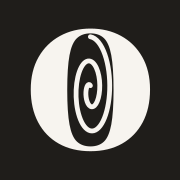
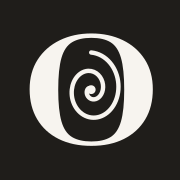
feat: widen the o of Poetry into a round bowl for the coil

diff --git a/frontend/src/components/brand/Wordmark.tsx b/frontend/src/components/brand/Wordmark.tsx
@@ -1,14 +1,16 @@
 import { cn } from "@/lib/utils";
 
 // Generated from DM Serif Display outlines (OFL), so the lockup carries no webfont
-// dependency. The spiral stands in for the counter of the "o" and is stroked at the
-// serif's own hairline weight. Regenerate rather than hand-edit: docs/design/logo.md.
-const VIEW_BOX = "22 -673 7393 913";
+// dependency. The "o" of Poetry is a widened round bowl holding a two-turn spiral,
+// stroked at the serif's own hairline weight and ending in a pressed dot.
+// Regenerate rather than hand-edit: docs/design/logo.md.
+const VIEW_BOX = "22 -673 7420 913";
 const LETTERS =
-  "M294 0L22 0L22 -10L42 -17Q62 -23 68.5 -35Q75 -47 75 -67L75 -67L75 -591Q75 -611 68 -623Q61 -635 41 -642L41 -642L22 -650L22 -660L265 -660Q414 -660 480.5 -605.5Q547 -551 547 -462L547 -462Q547 -405 519.5 -357.5Q492 -310 429 -282Q366 -254 259 -254L259 -254L225 -254L225 -70Q225 -31 264 -19L264 -19L294 -10L294 0M225 -640L225 -274L263 -274Q312 -274 343 -290Q374 -306 389 -346Q404 -386 404 -457L404 -457Q404 -529 387.5 -569Q371 -609 339 -624.5Q307 -640 259 -640L259 -640L225 -640M838 15L838 15Q762 15 706 -16.5Q650 -48 619.5 -106Q589 -164 589 -242L589 -242Q589 -320 621.5 -377Q654 -434 710.5 -465Q767 -496 838 -496L838 -496Q909 -496 965 -465.5Q1021 -435 1053.5 -378Q1086 -321 1086 -242L1086 -242Q1086 -163 1055.5 -105.5Q1025 -48 969.5 -16.5Q914 15 838 15M838 -5L838 -5Q873 -5 894 -25Q915 -45 924.5 -96Q934 -147 934 -240L934 -240Q934 -334 924.5 -385Q915 -436 894 -456Q873 -476 838 -476L838 -476Q803 -476 781.5 -456Q760 -436 750.5 -385Q741 -334 741 -240L741 -240Q741 -147 750.5 -96Q760 -45 781.5 -25Q803 -5 838 -5M1381 -496L1381 -496Q1446 -496 1492 -469.5Q1538 -443 1562.5 -397.5Q1587 -352 1587 -294L1587 -294Q1587 -283 1586 -271.5Q1585 -260 1582 -251L1582 -251L1284 -251Q1285 -143 1322.5 -95.5Q1360 -48 1434 -48L1434 -48Q1484 -48 1515 -64Q1546 -80 1573 -111L1573 -111L1583 -102Q1552 -47 1500.5 -16Q1449 15 1377 15L1377 15Q1306 15 1251 -15.5Q1196 -46 1165 -103Q1134 -160 1134 -239L1134 -239Q1134 -321 1170 -378.5Q1206 -436 1262.5 -466Q1319 -496 1381 -496M1378 -476L1378 -476Q1349 -476 1328.5 -458.5Q1308 -441 1296.5 -396.5Q1285 -352 1284 -271L1284 -271L1455 -271Q1465 -380 1447 -428Q1429 -476 1378 -476M1827 15L1827 15Q1763 15 1727.5 -17Q1692 -49 1692 -119L1692 -119L1692 -461L1623 -461L1623 -471L1647 -475Q1678 -482 1700.5 -495Q1723 -508 1745 -530L1745 -530L1827 -621L1837 -621L1834 -481L1946 -481L1946 -461L1833 -461L1833 -101Q1833 -66 1848.5 -48Q1864 -30 1888 -30L1888 -30Q1909 -30 1925 -40.5Q1941 -51 1957 -69L1957 -69L1967 -59Q1947 -25 1912 -5Q1877 15 1827 15M2257 0L1998 0L1998 -10L2013 -14Q2033 -20 2040.5 -32Q2048 -44 2048 -63L2048 -63L2048 -376Q2048 -398 2040.5 -408.5Q2033 -419 2013 -423L2013 -423L1998 -427L1998 -437L2170 -495L2180 -485L2189 -399L2189 -391Q2203 -419 2225.5 -442.5Q2248 -466 2275.5 -481Q2303 -496 2330 -496L2330 -496Q2368 -496 2388 -475Q2408 -454 2408 -422L2408 -422Q2408 -388 2388.5 -369.5Q2369 -351 2342 -351L2342 -351Q2300 -351 2268 -393L2268 -393L2266 -395Q2256 -409 2243 -410.5Q2230 -412 2219 -398L2219 -398Q2209 -389 2202.5 -376.5Q2196 -364 2190 -348L2190 -348L2190 -69Q2190 -29 2225 -19L2225 -19L2257 -10L2257 0M2531 240L2531 240Q2491 240 2467.5 220Q2444 200 2444 169L2444 169Q2444 141 2464 124Q2484 107 2509 107L2509 107Q2534 107 2551 117.5Q2568 128 2581 148L2581 148L2588 156Q2610 186 2632 155L2632 155Q2641 140 2652.5 115.5Q2664 91 2679 50L2679 50L2485 -414Q2478 -433 2470 -444.5Q2462 -456 2444 -464L2444 -464L2426 -471L2426 -481L2675 -481L2675 -472L2655 -464Q2633 -457 2632.5 -441.5Q2632 -426 2640 -403L2640 -403L2744 -133L2843 -406Q2851 -429 2849 -444.5Q2847 -460 2824 -466L2824 -466L2803 -471L2803 -481L2942 -481L2942 -471L2920 -464Q2897 -457 2888 -444Q2879 -431 2871 -408L2871 -408L2710 31Q2671 136 2632 188Q2593 240 2531 240M3404 15L3404 15Q3338 15 3291.5 -9.5Q3245 -34 3221 -74Q3197 -114 3197 -163L3197 -163Q3197 -284 3353 -349L3353 -349Q3325 -387 3303.5 -426Q3282 -465 3282 -517L3282 -517Q3282 -588 3332.5 -630.5Q3383 -673 3465 -673L3465 -673Q3545 -673 3589 -637.5Q3633 -602 3633 -544L3633 -544Q3633 -495 3593 -458Q3553 -421 3479 -390L3479 -390Q3498 -369 3518.5 -345.5Q3539 -322 3561 -299L3561 -299Q3588 -269 3613.5 -242Q3639 -215 3665 -186L3665 -186Q3689 -219 3710 -266Q3731 -313 3743 -365L3743 -365Q3751 -403 3714 -414L3714 -414L3707 -417L3707 -427L3820 -427L3820 -417L3811 -414Q3778 -403 3768 -368L3768 -368Q3753 -312 3731 -262Q3709 -212 3680 -171L3680 -171L3787 -58Q3800 -44 3813 -35Q3826 -26 3842 -17L3842 -17L3856 -10L3856 0L3654 0L3587 -72Q3568 -51 3544 -31Q3520 -11 3486 2Q3452 15 3404 15M3467 -403L3467 -403Q3506 -438 3523.5 -473.5Q3541 -509 3541 -552L3541 -552Q3541 -591 3521 -615.5Q3501 -640 3466 -640L3466 -640Q3433 -640 3411 -616Q3389 -592 3389 -555L3389 -555Q3389 -532 3397.5 -507Q3406 -482 3428 -450L3428 -450Q3434 -442 3444 -431Q3454 -420 3467 -403M3462 -52L3462 -52Q3497 -52 3525 -62.5Q3553 -73 3573 -89L3573 -89Q3549 -116 3523 -145.5Q3497 -175 3474 -202L3474 -202Q3446 -235 3419.5 -268Q3393 -301 3367 -332L3367 -332Q3341 -308 3329 -276Q3317 -244 3317 -209L3317 -209Q3317 -141 3357.5 -96.5Q3398 -52 3462 -52M4406 0L4134 0L4134 -10L4154 -17Q4174 -23 4180.5 -35Q4187 -47 4187 -67L4187 -67L4187 -591Q4187 -611 4180 -623Q4173 -635 4153 -642L4153 -642L4134 -650L4134 -660L4377 -660Q4526 -660 4592.5 -605.5Q4659 -551 4659 -462L4659 -462Q4659 -405 4631.5 -357.5Q4604 -310 4541 -282Q4478 -254 4371 -254L4371 -254L4337 -254L4337 -70Q4337 -31 4376 -19L4376 -19L4406 -10L4406 0M4337 -640L4337 -274L4375 -274Q4424 -274 4455 -290Q4486 -306 4501 -346Q4516 -386 4516 -457L4516 -457Q4516 -529 4499.5 -569Q4483 -609 4451 -624.5Q4419 -640 4371 -640L4371 -640L4337 -640M4950 15L4950 15Q4874 15 4818 -16.5Q4762 -48 4731.5 -106Q4701 -164 4701 -242L4701 -242Q4701 -320 4733.5 -377Q4766 -434 4822.5 -465Q4879 -496 4950 -496L4950 -496Q5021 -496 5077 -465.5Q5133 -435 5165.5 -378Q5198 -321 5198 -242L5198 -242Q5198 -163 5167.5 -105.5Q5137 -48 5081.5 -16.5Q5026 15 4950 15M4950 -5L4950 -5Q4985 -5 5006 -25Q5027 -45 5036.5 -96Q5046 -147 5046 -240L5046 -240Q5046 -334 5036.5 -385Q5027 -436 5006 -456Q4985 -476 4950 -476L4950 -476Q4915 -476 4893.5 -456Q4872 -436 4862.5 -385Q4853 -334 4853 -240L4853 -240Q4853 -147 4862.5 -96Q4872 -45 4893.5 -25Q4915 -5 4950 -5M5432 15L5432 15Q5368 15 5332.5 -17Q5297 -49 5297 -119L5297 -119L5297 -461L5228 -461L5228 -471L5252 -475Q5283 -482 5305.5 -495Q5328 -508 5350 -530L5350 -530L5432 -621L5442 -621L5439 -481L5551 -481L5551 -461L5438 -461L5438 -101Q5438 -66 5453.5 -48Q5469 -30 5493 -30L5493 -30Q5514 -30 5530 -40.5Q5546 -51 5562 -69L5562 -69L5572 -59Q5552 -25 5517 -5Q5482 15 5432 15M5793 15L5793 15Q5729 15 5693.5 -17Q5658 -49 5658 -119L5658 -119L5658 -461L5589 -461L5589 -471L5613 -475Q5644 -482 5666.5 -495Q5689 -508 5711 -530L5711 -530L5793 -621L5803 -621L5800 -481L5912 -481L5912 -461L5799 -461L5799 -101Q5799 -66 5814.5 -48Q5830 -30 5854 -30L5854 -30Q5875 -30 5891 -40.5Q5907 -51 5923 -69L5923 -69L5933 -59Q5913 -25 5878 -5Q5843 15 5793 15M6215 -496L6215 -496Q6280 -496 6326 -469.5Q6372 -443 6396.5 -397.5Q6421 -352 6421 -294L6421 -294Q6421 -283 6420 -271.5Q6419 -260 6416 -251L6416 -251L6118 -251Q6119 -143 6156.5 -95.5Q6194 -48 6268 -48L6268 -48Q6318 -48 6349 -64Q6380 -80 6407 -111L6407 -111L6417 -102Q6386 -47 6334.5 -16Q6283 15 6211 15L6211 15Q6140 15 6085 -15.5Q6030 -46 5999 -103Q5968 -160 5968 -239L5968 -239Q5968 -321 6004 -378.5Q6040 -436 6096.5 -466Q6153 -496 6215 -496M6212 -476L6212 -476Q6183 -476 6162.5 -458.5Q6142 -441 6130.5 -396.5Q6119 -352 6118 -271L6118 -271L6289 -271Q6299 -380 6281 -428Q6263 -476 6212 -476M6730 0L6471 0L6471 -10L6486 -14Q6506 -20 6513.5 -32Q6521 -44 6521 -63L6521 -63L6521 -376Q6521 -398 6513.5 -408.5Q6506 -419 6486 -423L6486 -423L6471 -427L6471 -437L6643 -495L6653 -485L6662 -399L6662 -391Q6676 -419 6698.5 -442.5Q6721 -466 6748.5 -481Q6776 -496 6803 -496L6803 -496Q6841 -496 6861 -475Q6881 -454 6881 -422L6881 -422Q6881 -388 6861.5 -369.5Q6842 -351 6815 -351L6815 -351Q6773 -351 6741 -393L6741 -393L6739 -395Q6729 -409 6716 -410.5Q6703 -412 6692 -398L6692 -398Q6682 -389 6675.5 -376.5Q6669 -364 6663 -348L6663 -348L6663 -69Q6663 -29 6698 -19L6698 -19L6730 -10L6730 0M7004 240L7004 240Q6964 240 6940.5 220Q6917 200 6917 169L6917 169Q6917 141 6937 124Q6957 107 6982 107L6982 107Q7007 107 7024 117.5Q7041 128 7054 148L7054 148L7061 156Q7083 186 7105 155L7105 155Q7114 140 7125.5 115.5Q7137 91 7152 50L7152 50L6958 -414Q6951 -433 6943 -444.5Q6935 -456 6917 -464L6917 -464L6899 -471L6899 -481L7148 -481L7148 -472L7128 -464Q7106 -457 7105.5 -441.5Q7105 -426 7113 -403L7113 -403L7217 -133L7316 -406Q7324 -429 7322 -444.5Q7320 -460 7297 -466L7297 -466L7276 -471L7276 -481L7415 -481L7415 -471L7393 -464Q7370 -457 7361 -444Q7352 -431 7344 -408L7344 -408L7183 31Q7144 136 7105 188Q7066 240 7004 240";
+  "M294 0L22 0L22 -10L42 -17Q62 -23 68.5 -35Q75 -47 75 -67L75 -67L75 -591Q75 -611 68 -623Q61 -635 41 -642L41 -642L22 -650L22 -660L265 -660Q414 -660 480.5 -605.5Q547 -551 547 -462L547 -462Q547 -405 519.5 -357.5Q492 -310 429 -282Q366 -254 259 -254L259 -254L225 -254L225 -70Q225 -31 264 -19L264 -19L294 -10L294 0M225 -640L225 -274L263 -274Q312 -274 343 -290Q374 -306 389 -346Q404 -386 404 -457L404 -457Q404 -529 387.5 -569Q371 -609 339 -624.5Q307 -640 259 -640L259 -640L225 -640M851.56 15L851.56 15Q765.93 15 702.83 -16.5Q639.73 -48 605.37 -106Q571 -164 571 -242L571 -242Q571 -320 607.62 -377Q644.24 -434 707.9 -465Q771.56 -496 851.56 -496L851.56 -496Q931.56 -496 994.66 -465.5Q1057.76 -435 1094.38 -378Q1131 -321 1131 -242L1131 -242Q1131 -163 1096.63 -105.5Q1062.27 -48 999.73 -16.5Q937.2 15 851.56 15M851.78 -5L851.78 -5Q906.18 -5 938.82 -25Q971.47 -45 986.23 -96Q1001 -147 1001 -240L1001 -240Q1001 -334 986.23 -385Q971.47 -436 938.82 -456Q906.18 -476 851.78 -476L851.78 -476Q797.37 -476 763.95 -456Q730.53 -436 715.77 -385Q701 -334 701 -240L701 -240Q701 -147 715.77 -96Q730.53 -45 763.95 -25Q797.37 -5 851.78 -5M1408 -496L1408 -496Q1473 -496 1519 -469.5Q1565 -443 1589.5 -397.5Q1614 -352 1614 -294L1614 -294Q1614 -283 1613 -271.5Q1612 -260 1609 -251L1609 -251L1311 -251Q1312 -143 1349.5 -95.5Q1387 -48 1461 -48L1461 -48Q1511 -48 1542 -64Q1573 -80 1600 -111L1600 -111L1610 -102Q1579 -47 1527.5 -16Q1476 15 1404 15L1404 15Q1333 15 1278 -15.5Q1223 -46 1192 -103Q1161 -160 1161 -239L1161 -239Q1161 -321 1197 -378.5Q1233 -436 1289.5 -466Q1346 -496 1408 -496M1405 -476L1405 -476Q1376 -476 1355.5 -458.5Q1335 -441 1323.5 -396.5Q1312 -352 1311 -271L1311 -271L1482 -271Q1492 -380 1474 -428Q1456 -476 1405 -476M1854 15L1854 15Q1790 15 1754.5 -17Q1719 -49 1719 -119L1719 -119L1719 -461L1650 -461L1650 -471L1674 -475Q1705 -482 1727.5 -495Q1750 -508 1772 -530L1772 -530L1854 -621L1864 -621L1861 -481L1973 -481L1973 -461L1860 -461L1860 -101Q1860 -66 1875.5 -48Q1891 -30 1915 -30L1915 -30Q1936 -30 1952 -40.5Q1968 -51 1984 -69L1984 -69L1994 -59Q1974 -25 1939 -5Q1904 15 1854 15M2284 0L2025 0L2025 -10L2040 -14Q2060 -20 2067.5 -32Q2075 -44 2075 -63L2075 -63L2075 -376Q2075 -398 2067.5 -408.5Q2060 -419 2040 -423L2040 -423L2025 -427L2025 -437L2197 -495L2207 -485L2216 -399L2216 -391Q2230 -419 2252.5 -442.5Q2275 -466 2302.5 -481Q2330 -496 2357 -496L2357 -496Q2395 -496 2415 -475Q2435 -454 2435 -422L2435 -422Q2435 -388 2415.5 -369.5Q2396 -351 2369 -351L2369 -351Q2327 -351 2295 -393L2295 -393L2293 -395Q2283 -409 2270 -410.5Q2257 -412 2246 -398L2246 -398Q2236 -389 2229.5 -376.5Q2223 -364 2217 -348L2217 -348L2217 -69Q2217 -29 2252 -19L2252 -19L2284 -10L2284 0M2558 240L2558 240Q2518 240 2494.5 220Q2471 200 2471 169L2471 169Q2471 141 2491 124Q2511 107 2536 107L2536 107Q2561 107 2578 117.5Q2595 128 2608 148L2608 148L2615 156Q2637 186 2659 155L2659 155Q2668 140 2679.5 115.5Q2691 91 2706 50L2706 50L2512 -414Q2505 -433 2497 -444.5Q2489 -456 2471 -464L2471 -464L2453 -471L2453 -481L2702 -481L2702 -472L2682 -464Q2660 -457 2659.5 -441.5Q2659 -426 2667 -403L2667 -403L2771 -133L2870 -406Q2878 -429 2876 -444.5Q2874 -460 2851 -466L2851 -466L2830 -471L2830 -481L2969 -481L2969 -471L2947 -464Q2924 -457 2915 -444Q2906 -431 2898 -408L2898 -408L2737 31Q2698 136 2659 188Q2620 240 2558 240M3431 15L3431 15Q3365 15 3318.5 -9.5Q3272 -34 3248 -74Q3224 -114 3224 -163L3224 -163Q3224 -284 3380 -349L3380 -349Q3352 -387 3330.5 -426Q3309 -465 3309 -517L3309 -517Q3309 -588 3359.5 -630.5Q3410 -673 3492 -673L3492 -673Q3572 -673 3616 -637.5Q3660 -602 3660 -544L3660 -544Q3660 -495 3620 -458Q3580 -421 3506 -390L3506 -390Q3525 -369 3545.5 -345.5Q3566 -322 3588 -299L3588 -299Q3615 -269 3640.5 -242Q3666 -215 3692 -186L3692 -186Q3716 -219 3737 -266Q3758 -313 3770 -365L3770 -365Q3778 -403 3741 -414L3741 -414L3734 -417L3734 -427L3847 -427L3847 -417L3838 -414Q3805 -403 3795 -368L3795 -368Q3780 -312 3758 -262Q3736 -212 3707 -171L3707 -171L3814 -58Q3827 -44 3840 -35Q3853 -26 3869 -17L3869 -17L3883 -10L3883 0L3681 0L3614 -72Q3595 -51 3571 -31Q3547 -11 3513 2Q3479 15 3431 15M3494 -403L3494 -403Q3533 -438 3550.5 -473.5Q3568 -509 3568 -552L3568 -552Q3568 -591 3548 -615.5Q3528 -640 3493 -640L3493 -640Q3460 -640 3438 -616Q3416 -592 3416 -555L3416 -555Q3416 -532 3424.5 -507Q3433 -482 3455 -450L3455 -450Q3461 -442 3471 -431Q3481 -420 3494 -403M3489 -52L3489 -52Q3524 -52 3552 -62.5Q3580 -73 3600 -89L3600 -89Q3576 -116 3550 -145.5Q3524 -175 3501 -202L3501 -202Q3473 -235 3446.5 -268Q3420 -301 3394 -332L3394 -332Q3368 -308 3356 -276Q3344 -244 3344 -209L3344 -209Q3344 -141 3384.5 -96.5Q3425 -52 3489 -52M4433 0L4161 0L4161 -10L4181 -17Q4201 -23 4207.5 -35Q4214 -47 4214 -67L4214 -67L4214 -591Q4214 -611 4207 -623Q4200 -635 4180 -642L4180 -642L4161 -650L4161 -660L4404 -660Q4553 -660 4619.5 -605.5Q4686 -551 4686 -462L4686 -462Q4686 -405 4658.5 -357.5Q4631 -310 4568 -282Q4505 -254 4398 -254L4398 -254L4364 -254L4364 -70Q4364 -31 4403 -19L4403 -19L4433 -10L4433 0M4364 -640L4364 -274L4402 -274Q4451 -274 4482 -290Q4513 -306 4528 -346Q4543 -386 4543 -457L4543 -457Q4543 -529 4526.5 -569Q4510 -609 4478 -624.5Q4446 -640 4398 -640L4398 -640L4364 -640M4977 15L4977 15Q4901 15 4845 -16.5Q4789 -48 4758.5 -106Q4728 -164 4728 -242L4728 -242Q4728 -320 4760.5 -377Q4793 -434 4849.5 -465Q4906 -496 4977 -496L4977 -496Q5048 -496 5104 -465.5Q5160 -435 5192.5 -378Q5225 -321 5225 -242L5225 -242Q5225 -163 5194.5 -105.5Q5164 -48 5108.5 -16.5Q5053 15 4977 15M4977 -5L4977 -5Q5012 -5 5033 -25Q5054 -45 5063.5 -96Q5073 -147 5073 -240L5073 -240Q5073 -334 5063.5 -385Q5054 -436 5033 -456Q5012 -476 4977 -476L4977 -476Q4942 -476 4920.5 -456Q4899 -436 4889.5 -385Q4880 -334 4880 -240L4880 -240Q4880 -147 4889.5 -96Q4899 -45 4920.5 -25Q4942 -5 4977 -5M5459 15L5459 15Q5395 15 5359.5 -17Q5324 -49 5324 -119L5324 -119L5324 -461L5255 -461L5255 -471L5279 -475Q5310 -482 5332.5 -495Q5355 -508 5377 -530L5377 -530L5459 -621L5469 -621L5466 -481L5578 -481L5578 -461L5465 -461L5465 -101Q5465 -66 5480.5 -48Q5496 -30 5520 -30L5520 -30Q5541 -30 5557 -40.5Q5573 -51 5589 -69L5589 -69L5599 -59Q5579 -25 5544 -5Q5509 15 5459 15M5820 15L5820 15Q5756 15 5720.5 -17Q5685 -49 5685 -119L5685 -119L5685 -461L5616 -461L5616 -471L5640 -475Q5671 -482 5693.5 -495Q5716 -508 5738 -530L5738 -530L5820 -621L5830 -621L5827 -481L5939 -481L5939 -461L5826 -461L5826 -101Q5826 -66 5841.5 -48Q5857 -30 5881 -30L5881 -30Q5902 -30 5918 -40.5Q5934 -51 5950 -69L5950 -69L5960 -59Q5940 -25 5905 -5Q5870 15 5820 15M6242 -496L6242 -496Q6307 -496 6353 -469.5Q6399 -443 6423.5 -397.5Q6448 -352 6448 -294L6448 -294Q6448 -283 6447 -271.5Q6446 -260 6443 -251L6443 -251L6145 -251Q6146 -143 6183.5 -95.5Q6221 -48 6295 -48L6295 -48Q6345 -48 6376 -64Q6407 -80 6434 -111L6434 -111L6444 -102Q6413 -47 6361.5 -16Q6310 15 6238 15L6238 15Q6167 15 6112 -15.5Q6057 -46 6026 -103Q5995 -160 5995 -239L5995 -239Q5995 -321 6031 -378.5Q6067 -436 6123.5 -466Q6180 -496 6242 -496M6239 -476L6239 -476Q6210 -476 6189.5 -458.5Q6169 -441 6157.5 -396.5Q6146 -352 6145 -271L6145 -271L6316 -271Q6326 -380 6308 -428Q6290 -476 6239 -476M6757 0L6498 0L6498 -10L6513 -14Q6533 -20 6540.5 -32Q6548 -44 6548 -63L6548 -63L6548 -376Q6548 -398 6540.5 -408.5Q6533 -419 6513 -423L6513 -423L6498 -427L6498 -437L6670 -495L6680 -485L6689 -399L6689 -391Q6703 -419 6725.5 -442.5Q6748 -466 6775.5 -481Q6803 -496 6830 -496L6830 -496Q6868 -496 6888 -475Q6908 -454 6908 -422L6908 -422Q6908 -388 6888.5 -369.5Q6869 -351 6842 -351L6842 -351Q6800 -351 6768 -393L6768 -393L6766 -395Q6756 -409 6743 -410.5Q6730 -412 6719 -398L6719 -398Q6709 -389 6702.5 -376.5Q6696 -364 6690 -348L6690 -348L6690 -69Q6690 -29 6725 -19L6725 -19L6757 -10L6757 0M7031 240L7031 240Q6991 240 6967.5 220Q6944 200 6944 169L6944 169Q6944 141 6964 124Q6984 107 7009 107L7009 107Q7034 107 7051 117.5Q7068 128 7081 148L7081 148L7088 156Q7110 186 7132 155L7132 155Q7141 140 7152.5 115.5Q7164 91 7179 50L7179 50L6985 -414Q6978 -433 6970 -444.5Q6962 -456 6944 -464L6944 -464L6926 -471L6926 -481L7175 -481L7175 -472L7155 -464Q7133 -457 7132.5 -441.5Q7132 -426 7140 -403L7140 -403L7244 -133L7343 -406Q7351 -429 7349 -444.5Q7347 -460 7324 -466L7324 -466L7303 -471L7303 -481L7442 -481L7442 -471L7420 -464Q7397 -457 7388 -444Q7379 -431 7371 -408L7371 -408L7210 31Q7171 136 7132 188Q7093 240 7031 240";
 const SPIRAL =
-  "M837.5 -461.87C849.37 -459.7 860.89 -451.87 871.22 -439.14C881.54 -426.41 890.65 -408.84 897.95 -388.03C905.25 -367.22 910.73 -343.18 914.08 -317.91C917.43 -292.63 918.65 -266.14 917.78 -240.5C916.91 -214.86 913.95 -190.07 909.26 -167.96C904.56 -145.85 898.14 -126.42 890.58 -110.97C883.01 -95.51 874.32 -84.04 865.23 -77.14C856.13 -70.24 846.64 -67.92 837.5 -70.05C828.36 -72.17 819.57 -78.72 811.77 -88.9C803.97 -99.08 797.17 -112.87 791.8 -128.97C786.43 -145.07 782.5 -163.46 780.2 -182.58C777.89 -201.69 777.22 -221.52 778.08 -240.5C778.95 -259.48 781.37 -277.6 785.02 -293.55C788.67 -309.51 793.54 -323.29 799.18 -334.03C804.81 -344.77 811.18 -352.47 817.76 -356.82C824.33 -361.17 831.09 -362.16 837.5 -360.04C843.91 -357.92 849.97 -352.69 855.25 -345.06C860.52 -337.43 865.01 -327.41 868.45 -316.03C871.88 -304.64 874.27 -291.9 875.53 -278.94C876.79 -265.98 876.92 -252.82 876.05 -240.5C875.18 -228.18 873.31 -216.73 870.71 -206.93C868.1 -197.14 864.77 -189 861.07 -182.97C857.37 -176.94 853.31 -173.02 849.26 -171.22C845.21 -169.42 841.18 -169.75 837.5 -171.88C833.82 -174 830.49 -177.9 827.74 -182.98C824.98 -188.06 822.81 -194.3 821.3 -200.98C819.8 -207.65 818.96 -214.74 818.75 -221.55C818.54 -228.35 818.94 -234.85 819.81 -240.5C820.68 -246.15 822.01 -250.94 823.57 -254.58C825.13 -258.22 826.91 -260.71 828.68 -262.02C830.45 -263.34 832.2 -263.5 833.72 -262.74C835.25 -261.99 836.55 -260.33 837.5 -258.21";
+  "M851 -409.38C867.4 -407.79 883.34 -402.79 897.89 -394.79C912.43 -386.78 925.57 -375.81 936.6 -362.68C947.63 -349.56 956.54 -334.28 962.93 -317.9C969.32 -301.52 973.18 -284.04 974.43 -266.57C975.68 -249.09 974.31 -231.64 970.57 -215.25C966.83 -198.85 960.72 -183.53 952.76 -170.13C944.79 -156.73 934.97 -145.26 924.01 -136.29C913.05 -127.31 900.95 -120.83 888.51 -117.07C876.07 -113.31 863.3 -112.28 851 -113.84C838.7 -115.4 826.86 -119.56 816.17 -125.89C805.48 -132.21 795.95 -140.69 788.06 -150.66C780.17 -160.63 773.93 -172.08 769.59 -184.21C765.26 -196.33 762.82 -209.13 762.29 -221.76C761.75 -234.4 763.12 -246.87 766.14 -258.42C769.17 -269.98 773.85 -280.61 779.77 -289.76C785.69 -298.9 792.83 -306.55 800.65 -312.37C808.47 -318.19 816.96 -322.18 825.55 -324.26C834.13 -326.33 842.8 -326.5 851 -324.94C859.2 -323.38 866.94 -320.08 873.77 -315.44C880.61 -310.8 886.53 -304.81 891.28 -298C896.03 -291.19 899.59 -283.56 901.88 -275.68C904.17 -267.81 905.18 -259.7 905 -251.9C904.82 -244.11 903.46 -236.63 901.14 -229.91C898.83 -223.19 895.57 -217.24 891.7 -212.35C887.84 -207.46 883.37 -203.63 878.69 -200.97C874.01 -198.31 869.12 -196.82 864.4 -196.42C859.67 -196.02 855.1 -196.72 851 -198.28C846.9 -199.84 843.26 -202.27 840.28 -205.23C837.3 -208.2 834.98 -211.69 833.38 -215.34C831.77 -219 830.88 -222.81 830.65 -226.43C830.41 -230.04 830.82 -233.47 831.71 -236.43C832.6 -239.39 833.97 -241.88 835.57 -243.76C837.17 -245.64 839.01 -246.9 840.82 -247.54C842.64 -248.17 844.43 -248.18 845.96 -247.69C847.5 -247.19 848.79 -246.19 849.66 -244.91C850.54 -243.63 851 -242.06 851 -240.5";
 const HAIRLINE = 20;
+const DOT = { cx: 851, cy: -240.5, r: 20 };
 
 export interface WordmarkProps {
   isReverse?: boolean;
@@ -37,6 +39,7 @@ export function Wordmark({ isReverse = false, className }: WordmarkProps) {
         strokeLinejoin="round"
         d={SPIRAL}
       />
+      <circle fill="currentColor" cx={DOT.cx} cy={DOT.cy} r={DOT.r} />
     </svg>
   );
 }
